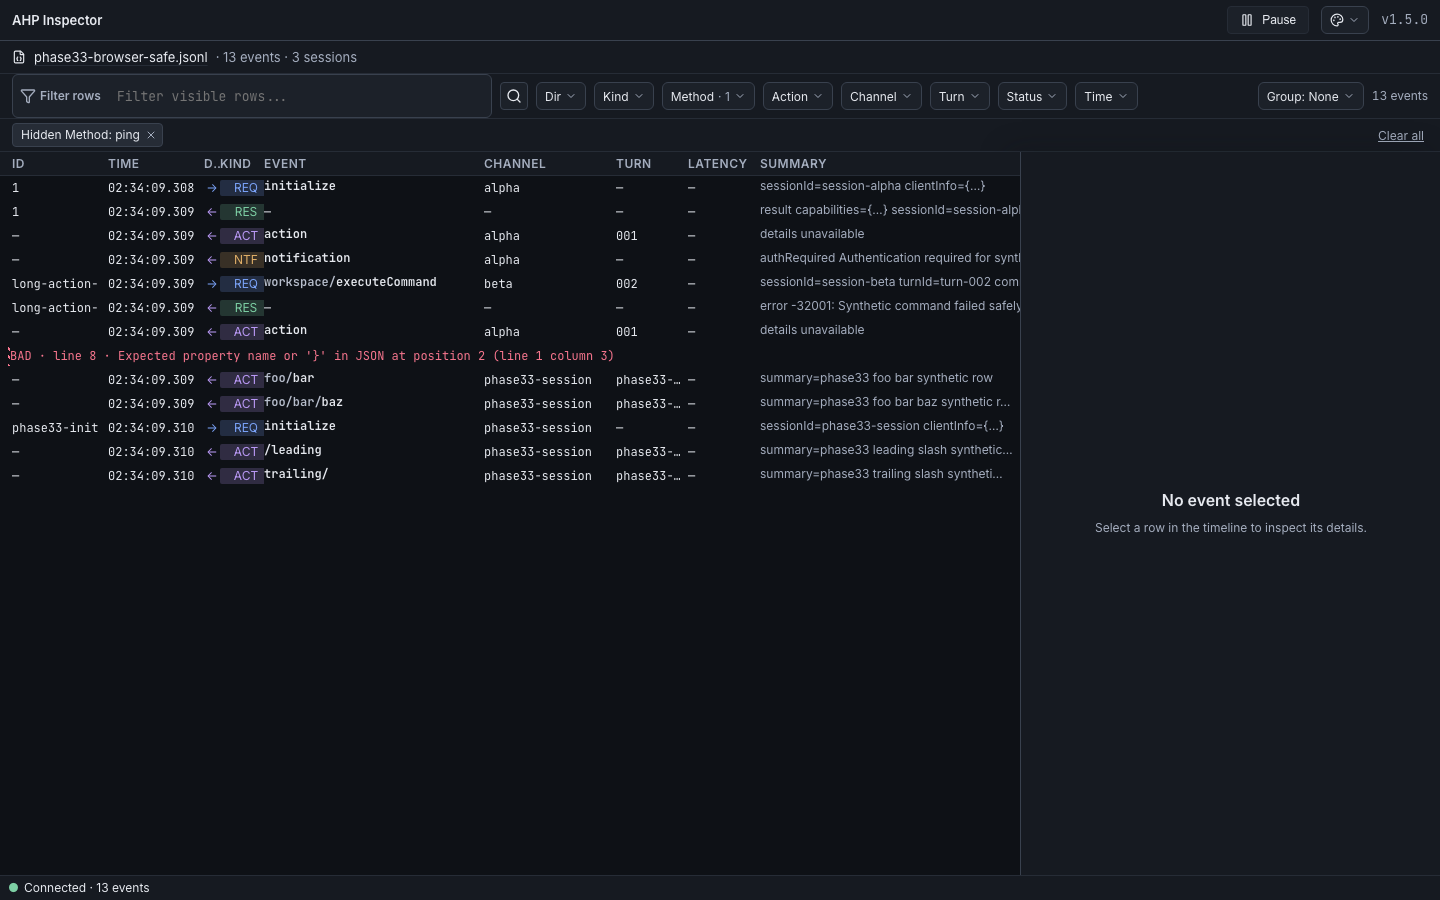
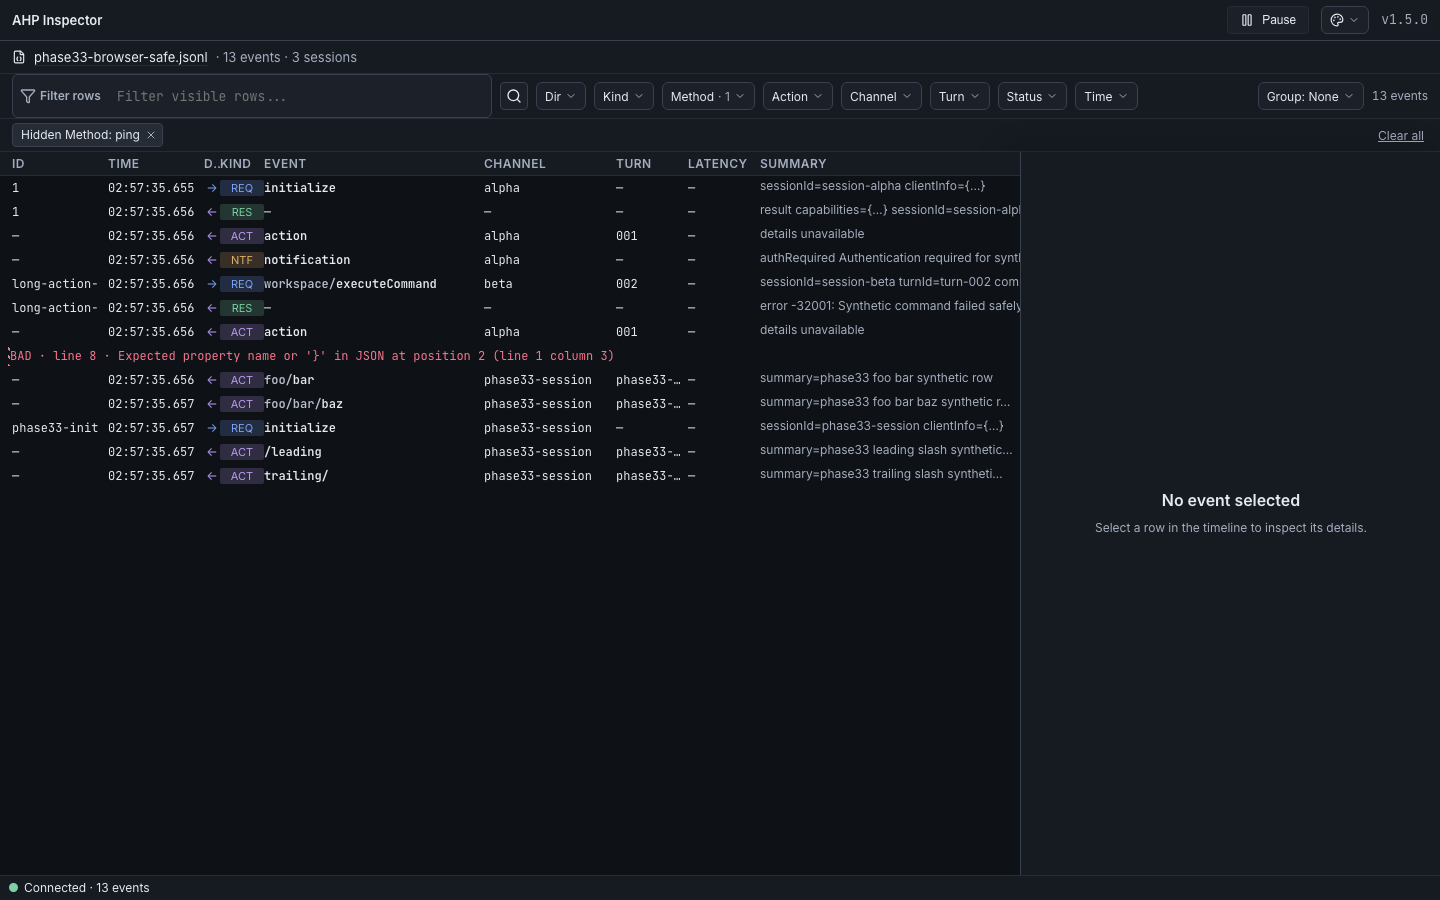
fix(33): center compact timeline kind badges (Written by Copilot)

diff --git a/packages/ui/src/components/timeline/cells/KindTag.tsx b/packages/ui/src/components/timeline/cells/KindTag.tsx
@@ -27,12 +27,18 @@ export function KindTag({ kind }: { kind: KindTagValue }): JSX.Element {
       data-kind={kind}
       title={TITLE[kind]}
       style={{
-        display: "inline-block",
+        display: "inline-flex",
+        alignItems: "center",
+        justifyContent: "center",
         width: 44,
+        height: 16,
+        boxSizing: "border-box",
         textAlign: "center",
-        padding: "0 4px",
-        fontSize: "var(--text-ui-muted-size)",
+        padding: "0 3px",
+        fontSize: "11px",
+        lineHeight: "16px",
         textTransform: "uppercase",
+        verticalAlign: "middle",
         background: `color-mix(in srgb, var(${v}) 20%, transparent)`,
         color: `var(${v})`,
         borderRadius: 2,

diff --git a/packages/ui/src/components/timeline/cells/KindTag.test.tsx b/packages/ui/src/components/timeline/cells/KindTag.test.tsx
@@ -20,4 +20,17 @@ describe("KindTag — UI-SPEC §5.2", () => {
     expect(el.textContent).toBe(kind);
     expect(el.getAttribute("title")).toBe(title);
   });
+
+  it("uses compact centered badge metrics", () => {
+    render(<KindTag kind="ACT" />);
+    expect(screen.getByTestId("kind-tag")).toHaveStyle({
+      display: "inline-flex",
+      alignItems: "center",
+      justifyContent: "center",
+      height: "16px",
+      fontSize: "11px",
+      lineHeight: "16px",
+      verticalAlign: "middle",
+    });
+  });
 });

diff --git a/packages/ui/src/components/timeline/EventRow.columns.test.tsx b/packages/ui/src/components/timeline/EventRow.columns.test.tsx
@@ -158,6 +158,10 @@ describe("EventRow — UI-SPEC §04.1 columns", () => {
     expect(screen.getByTestId("event-name-label").textContent).toBe(
       "session/toolCallContentChanged",
     );
+    expect(screen.getByTestId("event-name-label")).toHaveStyle({
+      display: "block",
+      lineHeight: "16px",
+    });
   });
 
   it("prevents every timeline column from wrapping", () => {

diff --git a/packages/ui/src/components/timeline/cells/EventNameLabel.tsx b/packages/ui/src/components/timeline/cells/EventNameLabel.tsx
@@ -81,12 +81,13 @@ export function EventNameLabel({
     <span
       data-testid="event-name-label"
       style={{
-        display: "inline-block",
+        display: "block",
         maxWidth: "100%",
         minWidth: 0,
         overflow: "hidden",
         textOverflow: "ellipsis",
         whiteSpace: "nowrap",
+        lineHeight: "16px",
       }}
     >
       {split ? (
